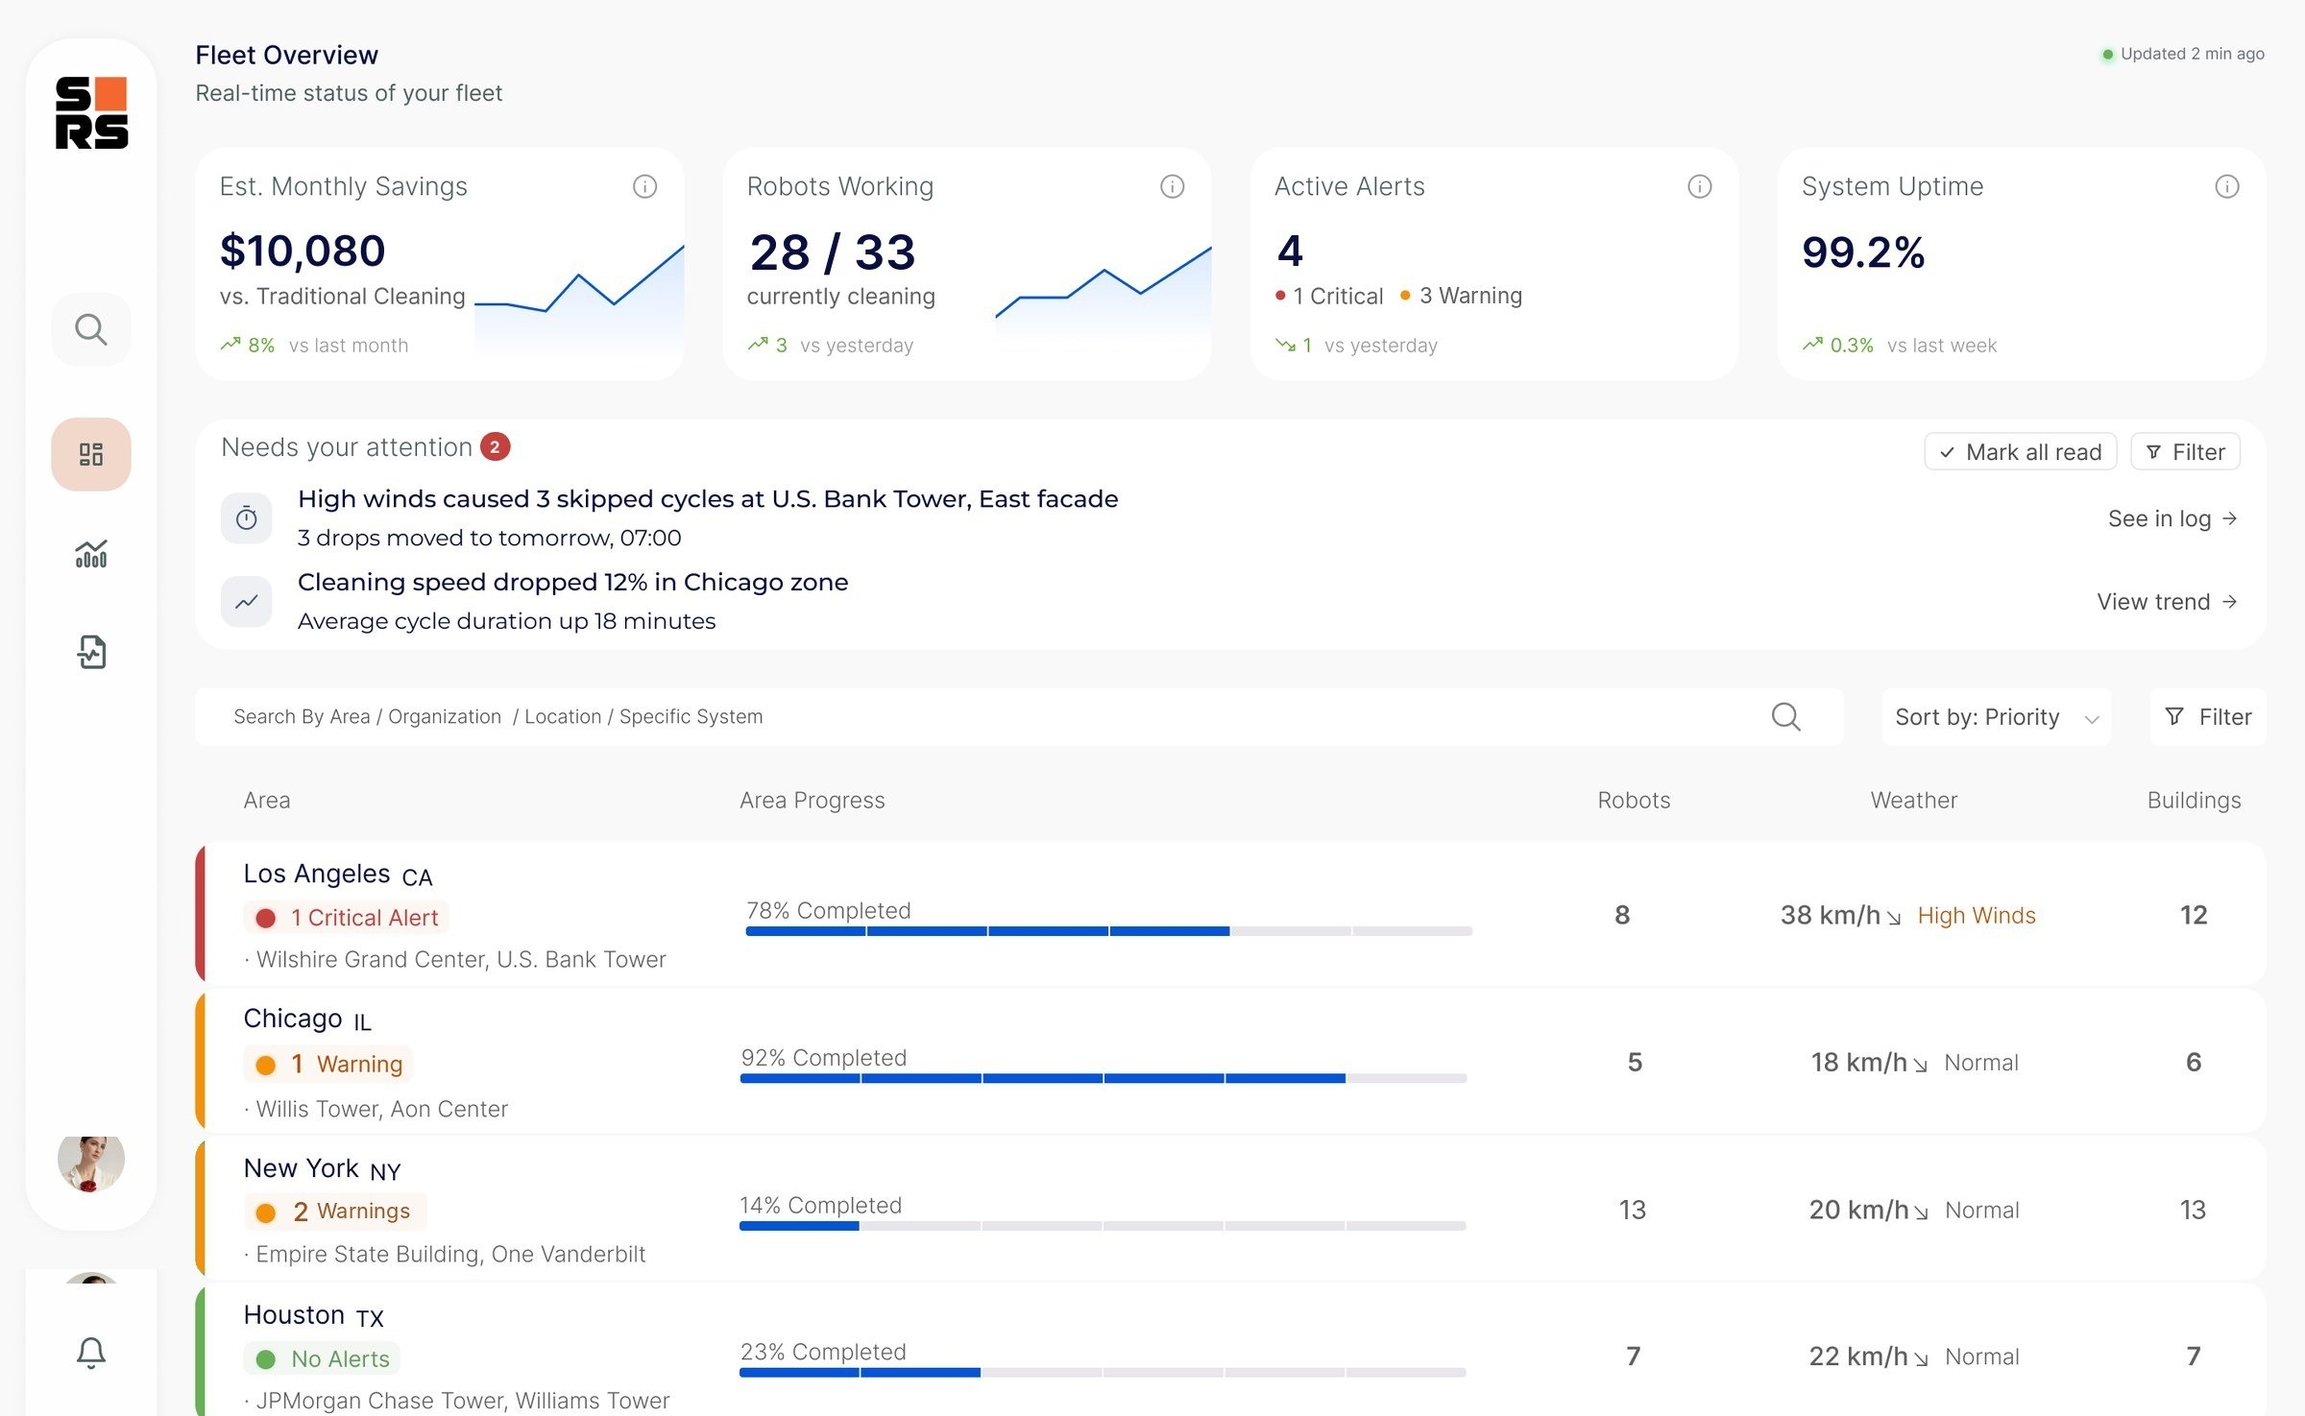
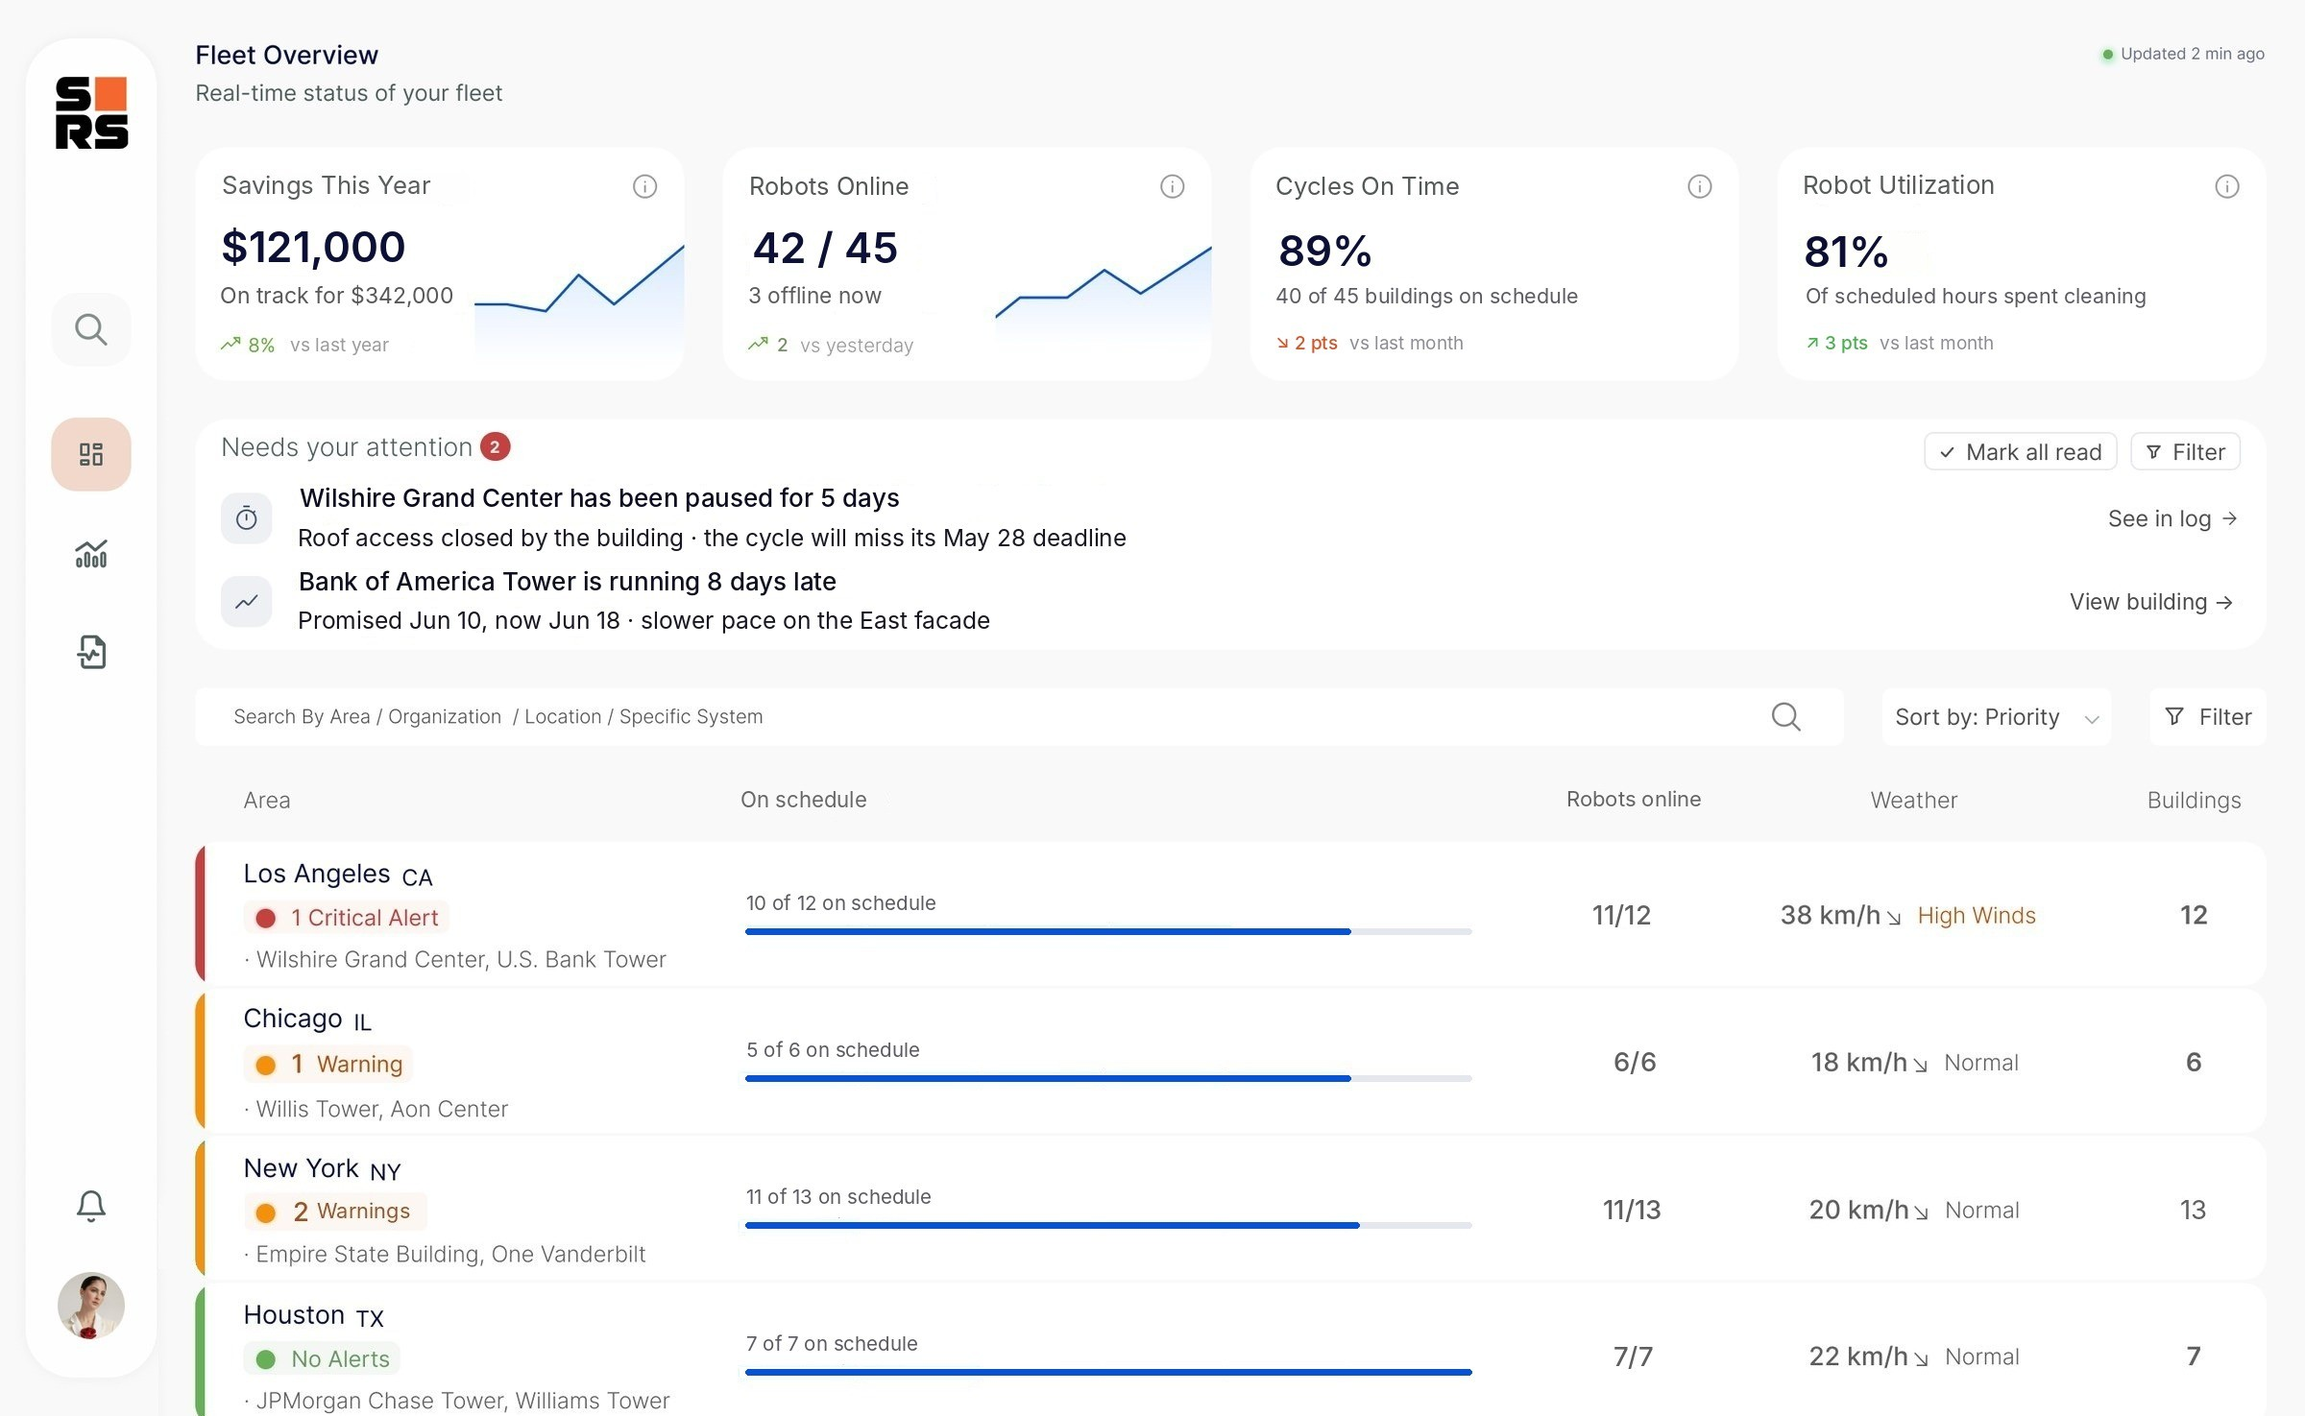
Skyline dashboard: owner-level KPIs, on-schedule areas and deadline alerts
- KPIs: savings this year, robots online, cycles on time, robot utilization
- Areas show buildings on schedule and robots online
- Needs your attention: a building paused 5 days, a building 8 days late
- Fix sidebar shifted by the earlier row swap
- Analytics top 5 uses the same cities as the dashboard

Claude-Session: https://claude.ai/code/session_01J9yPeBdVcBmf13JRMLxGDT

diff --git a/skyline.html b/skyline.html
@@ -86,7 +86,7 @@
     <p class="eyebrow">The platform</p>
     <h2>From the whole fleet down to a single window</h2>
     
-    <div class="stack" style="margin-top: clamp(40px, 5vw, 64px)"><div class="step"><p class="steplabel">The way in</p><h3 class="subhead">Login: Facade Analytics</h3><p class="lead">A simple sign-in screen. The illustration shows the idea behind the product: seeing what happens on the outside of the building.</p><div class="shot"><img src="/img/skyline/login.jpg" alt="Login screen: “Welcome to Skyline’s Facade Analytics. Data, outside the four walls” next to the sign-in form" width="2400" height="1467" loading="lazy" decoding="async"></div></div><div class="step"><p class="steplabel">Level 1 · Entry point</p><h3 class="subhead">Global Fleet Overview</h3><p class="lead">The owner’s entry point answers one question first: is anything wrong right now? What needs attention sits above the areas, and the areas are sorted by priority.</p><div class="shot"><img src="/img/skyline/fleet.jpg" alt="Fleet overview: savings, robots working, active alerts and uptime; a Needs your attention list with a high-wind stop in Los Angeles and a slowdown in Chicago; and areas sorted by priority with progress, robots, weather and buildings" width="2400" height="1475" loading="lazy" decoding="async"></div><ul class="callouts" style="--cols: 3"><li><h3>KPI cards</h3><p>Savings, robots working, active alerts and uptime, each with its trend.</p></li><li><h3>Needs your attention</h3><p>The few issues that need a decision, each with a direct link to the log or the trend.</p></li><li><h3>Areas by priority</h3><p>Critical first, with a color edge, progress, robots and live weather per area.</p></li></ul></div><div class="step"><p class="steplabel">Level 2 · Regional</p><h3 class="subhead">Regional Drill-Down (NYC)</h3><p class="lead">The area manager’s entry point: buildings that need attention come first, each with the reason, next to a map with the same statuses.</p><div class="shot"><img src="/img/skyline/region.jpg" alt="New York region: buildings that need attention listed first with the reason, the rest with cleaning progress, next to a city map with status pins" width="2400" height="1475" loading="lazy" decoding="async"></div><ul class="callouts" style="--cols: 3"><li><h3>Reason, not just status</h3><p>Each warning says what happened, like an open window or low water pressure.</p></li><li><h3>Summary bar</h3><p>Buildings, cleaning now, needs attention and robots online, at a glance.</p></li><li><h3>Weather widget</h3><p>Temperature and wind, right next to the buildings.</p></li></ul></div><div class="step"><p class="steplabel">Level 3 · Building detail</p><h3 class="subhead">Building Deep-Dive</h3><p class="lead">Window-by-window progress for a single building, with overall progress, an estimated finish date and a cleaning log that records every day of the cycle, including weather stops.</p><div class="shot"><img src="/img/skyline/building.jpg" alt="Single building view: cleaning log with a heavy-winds stop, facade tabs above a window grid of the north facade, and overall progress with today’s drops" width="2400" height="1475" loading="lazy" decoding="async"></div><ul class="callouts" style="--cols: 3"><li><h3>Facade tabs</h3><p>North, east, south and west, each with its own progress.</p></li><li><h3>Window grid</h3><p>The facade as a grid, with the live cleaning status of every window.</p></li><li><h3>Today</h3><p>Drops done, in progress and next, and whether the day is on track.</p></li></ul></div><div class="step"><p class="steplabel">Building setup</p><h3 class="subhead">Building Onboarding</h3><p class="lead">Every window in the view above has to be mapped before a robot can start. I designed the screen where the operator enters it on-site, with no developer in between: one drop, duplicated across the facade, with soft checks that catch typos before they reach the robot.</p><div class="proto-video"><video src="/img/building-onboarding/prototype.mp4" poster="/img/building-onboarding/prototype-poster.jpg" width="1440" height="900" autoplay muted loop playsinline preload="metadata" aria-label="Walkthrough of the Add New Building screen: a soft check catches a 12 m window width, the window sequence is edited live on the facade, and the facade is duplicated to a shorter side"></video></div><script>(function(){var v=document.currentScript.previousElementSibling.querySelector("video");if(matchMedia("(prefers-reduced-motion: reduce)").matches){v.removeAttribute("autoplay");v.pause();v.controls=true}})()</script><a class="link-card" href="/building-onboarding"><span><b>Building Onboarding</b> · Read the full case study</span><svg width="14" height="14" viewBox="0 0 16 16" fill="none" aria-hidden="true"><path d="M3 8h9M8.5 4.5 12 8l-3.5 3.5" stroke="currentColor" stroke-width="1.5" stroke-linecap="square"/></svg></a></div><div class="step"><p class="steplabel">Level 4 · Analytics</p><h3 class="subhead">Analytics for the fleet or a single building</h3><p class="lead">One analytics screen with a switch at the top. All buildings shows the business view an owner needs. A single building shows why it’s behind.</p><div class="shot"><img src="/img/skyline/analytics.jpg" alt="Fleet analytics: savings, utilization, cycles on time and cost per 1,000 sqft; where robot time goes; the five buildings to look at; savings over the year; cycles finished on time against the target" width="2400" height="1475" loading="lazy" decoding="async"></div><div class="shot"><img src="/img/skyline/analytics-building.jpg" alt="Single building analytics: progress against plan with a forecast finish date, drops per day, resource use and the robot’s service status" width="2400" height="1475" loading="lazy" decoding="async"></div><ul class="callouts" style="--cols: 3"><li><h3>Business view</h3><p>Savings, robot utilization, cycles on time and cost per 1,000 sqft, each with its trend.</p></li><li><h3>Buildings to look at</h3><p>The five buildings most out of range, and why, one click from their analytics.</p></li><li><h3>Building view</h3><p>Progress against the plan with a forecast finish date, daily pace and the robot’s service status.</p></li></ul></div><div class="step"><p class="steplabel">Level 4 · Reports</p><h3 class="subhead">Operational analytics</h3><p class="lead">Performance scores, completed drops and water consumption per building, for client and sustainability reporting.</p><div class="shot"><img src="/img/skyline/reports.jpg" alt="Report view with performance scores, completed drops and water consumption per building" width="2400" height="1475" loading="lazy" decoding="async"></div><ul class="callouts" style="--cols: 3"><li><h3>Performance scores</h3><p>Actual against expected performance, per building.</p></li><li><h3>Completed drops</h3><p>Historical data on completed operations.</p></li><li><h3>Water consumption</h3><p>Usage per day, with anomaly alerts for unusual use.</p></li></ul></div></div>
+    <div class="stack" style="margin-top: clamp(40px, 5vw, 64px)"><div class="step"><p class="steplabel">The way in</p><h3 class="subhead">Login: Facade Analytics</h3><p class="lead">A simple sign-in screen. The illustration shows the idea behind the product: seeing what happens on the outside of the building.</p><div class="shot"><img src="/img/skyline/login.jpg" alt="Login screen: “Welcome to Skyline’s Facade Analytics. Data, outside the four walls” next to the sign-in form" width="2400" height="1467" loading="lazy" decoding="async"></div></div><div class="step"><p class="steplabel">Level 1 · Entry point</p><h3 class="subhead">Global Fleet Overview</h3><p class="lead">The owner’s entry point answers one question first: is anything wrong right now? What needs attention sits above the areas, and the areas are sorted by priority.</p><div class="shot"><img src="/img/skyline/fleet.jpg" alt="Fleet overview: savings, robots online, cycles on time and robot utilization; a Needs your attention list with a building paused for 5 days and a building running 8 days late; and areas sorted by priority with buildings on schedule, robots online, weather and buildings" width="2400" height="1475" loading="lazy" decoding="async"></div><ul class="callouts" style="--cols: 3"><li><h3>KPI cards</h3><p>Savings, robots online, cycles on time and robot utilization, each with its trend.</p></li><li><h3>Needs your attention</h3><p>Buildings at risk of missing a customer deadline, with the reason and a link to the building.</p></li><li><h3>Areas by priority</h3><p>Critical first, with a color edge, buildings on schedule, robots online and live weather per area.</p></li></ul></div><div class="step"><p class="steplabel">Level 2 · Regional</p><h3 class="subhead">Regional Drill-Down (NYC)</h3><p class="lead">The area manager’s entry point: buildings that need attention come first, each with the reason, next to a map with the same statuses.</p><div class="shot"><img src="/img/skyline/region.jpg" alt="New York region: buildings that need attention listed first with the reason, the rest with cleaning progress, next to a city map with status pins" width="2400" height="1475" loading="lazy" decoding="async"></div><ul class="callouts" style="--cols: 3"><li><h3>Reason, not just status</h3><p>Each warning says what happened, like an open window or low water pressure.</p></li><li><h3>Summary bar</h3><p>Buildings, cleaning now, needs attention and robots online, at a glance.</p></li><li><h3>Weather widget</h3><p>Temperature and wind, right next to the buildings.</p></li></ul></div><div class="step"><p class="steplabel">Level 3 · Building detail</p><h3 class="subhead">Building Deep-Dive</h3><p class="lead">Window-by-window progress for a single building, with overall progress, an estimated finish date and a cleaning log that records every day of the cycle, including weather stops.</p><div class="shot"><img src="/img/skyline/building.jpg" alt="Single building view: cleaning log with a heavy-winds stop, facade tabs above a window grid of the north facade, and overall progress with today’s drops" width="2400" height="1475" loading="lazy" decoding="async"></div><ul class="callouts" style="--cols: 3"><li><h3>Facade tabs</h3><p>North, east, south and west, each with its own progress.</p></li><li><h3>Window grid</h3><p>The facade as a grid, with the live cleaning status of every window.</p></li><li><h3>Today</h3><p>Drops done, in progress and next, and whether the day is on track.</p></li></ul></div><div class="step"><p class="steplabel">Building setup</p><h3 class="subhead">Building Onboarding</h3><p class="lead">Every window in the view above has to be mapped before a robot can start. I designed the screen where the operator enters it on-site, with no developer in between: one drop, duplicated across the facade, with soft checks that catch typos before they reach the robot.</p><div class="proto-video"><video src="/img/building-onboarding/prototype.mp4" poster="/img/building-onboarding/prototype-poster.jpg" width="1440" height="900" autoplay muted loop playsinline preload="metadata" aria-label="Walkthrough of the Add New Building screen: a soft check catches a 12 m window width, the window sequence is edited live on the facade, and the facade is duplicated to a shorter side"></video></div><script>(function(){var v=document.currentScript.previousElementSibling.querySelector("video");if(matchMedia("(prefers-reduced-motion: reduce)").matches){v.removeAttribute("autoplay");v.pause();v.controls=true}})()</script><a class="link-card" href="/building-onboarding"><span><b>Building Onboarding</b> · Read the full case study</span><svg width="14" height="14" viewBox="0 0 16 16" fill="none" aria-hidden="true"><path d="M3 8h9M8.5 4.5 12 8l-3.5 3.5" stroke="currentColor" stroke-width="1.5" stroke-linecap="square"/></svg></a></div><div class="step"><p class="steplabel">Level 4 · Analytics</p><h3 class="subhead">Analytics for the fleet or a single building</h3><p class="lead">One analytics screen with a switch at the top. All buildings shows the business view an owner needs. A single building shows why it’s behind.</p><div class="shot"><img src="/img/skyline/analytics.jpg" alt="Fleet analytics: savings, utilization, cycles on time and cost per 1,000 sqft; where robot time goes; the five buildings to look at; savings over the year; cycles finished on time against the target" width="2400" height="1475" loading="lazy" decoding="async"></div><div class="shot"><img src="/img/skyline/analytics-building.jpg" alt="Single building analytics: progress against plan with a forecast finish date, drops per day, resource use and the robot’s service status" width="2400" height="1475" loading="lazy" decoding="async"></div><ul class="callouts" style="--cols: 3"><li><h3>Business view</h3><p>Savings, robot utilization, cycles on time and cost per 1,000 sqft, each with its trend.</p></li><li><h3>Buildings to look at</h3><p>The five buildings most out of range, and why, one click from their analytics.</p></li><li><h3>Building view</h3><p>Progress against the plan with a forecast finish date, daily pace and the robot’s service status.</p></li></ul></div><div class="step"><p class="steplabel">Level 4 · Reports</p><h3 class="subhead">Operational analytics</h3><p class="lead">Performance scores, completed drops and water consumption per building, for client and sustainability reporting.</p><div class="shot"><img src="/img/skyline/reports.jpg" alt="Report view with performance scores, completed drops and water consumption per building" width="2400" height="1475" loading="lazy" decoding="async"></div><ul class="callouts" style="--cols: 3"><li><h3>Performance scores</h3><p>Actual against expected performance, per building.</p></li><li><h3>Completed drops</h3><p>Historical data on completed operations.</p></li><li><h3>Water consumption</h3><p>Usage per day, with anomaly alerts for unusual use.</p></li></ul></div></div>
   </div>
 </section>
 <section class="section">
